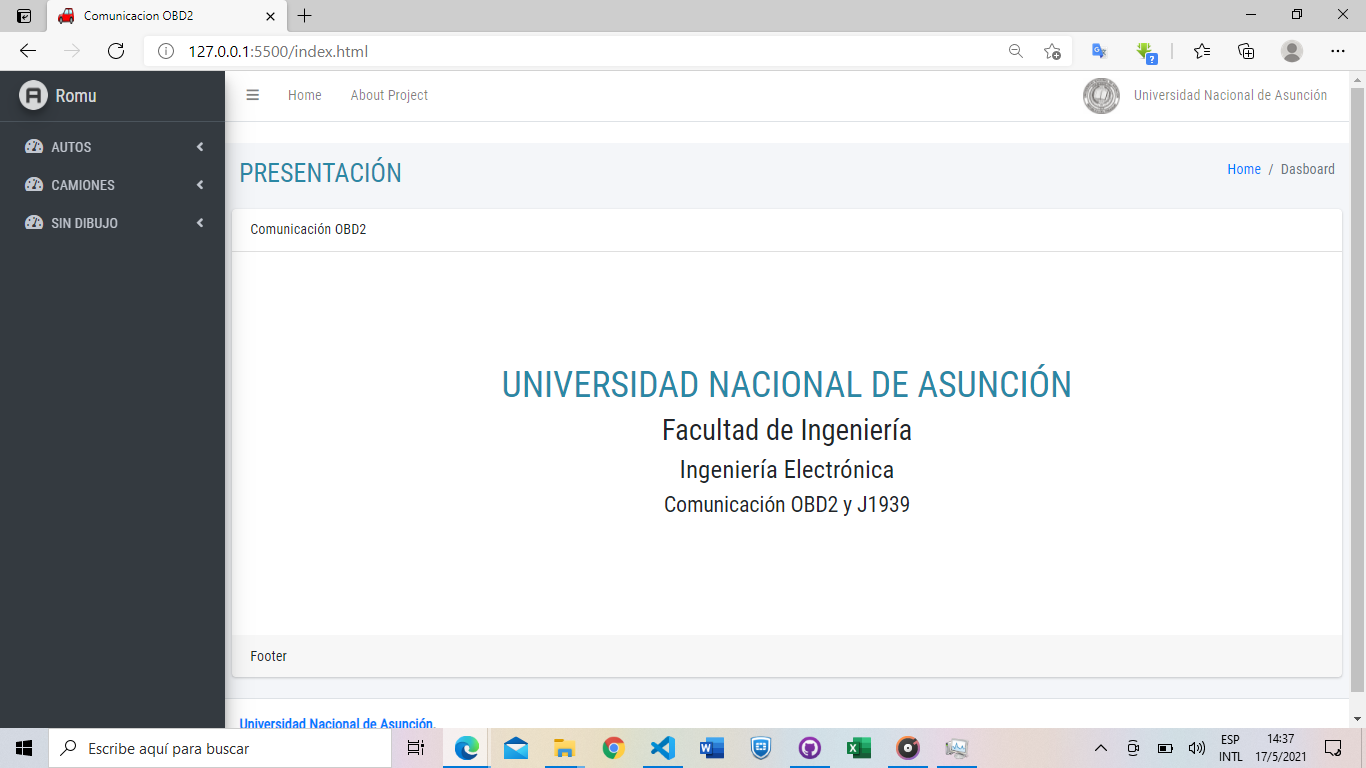
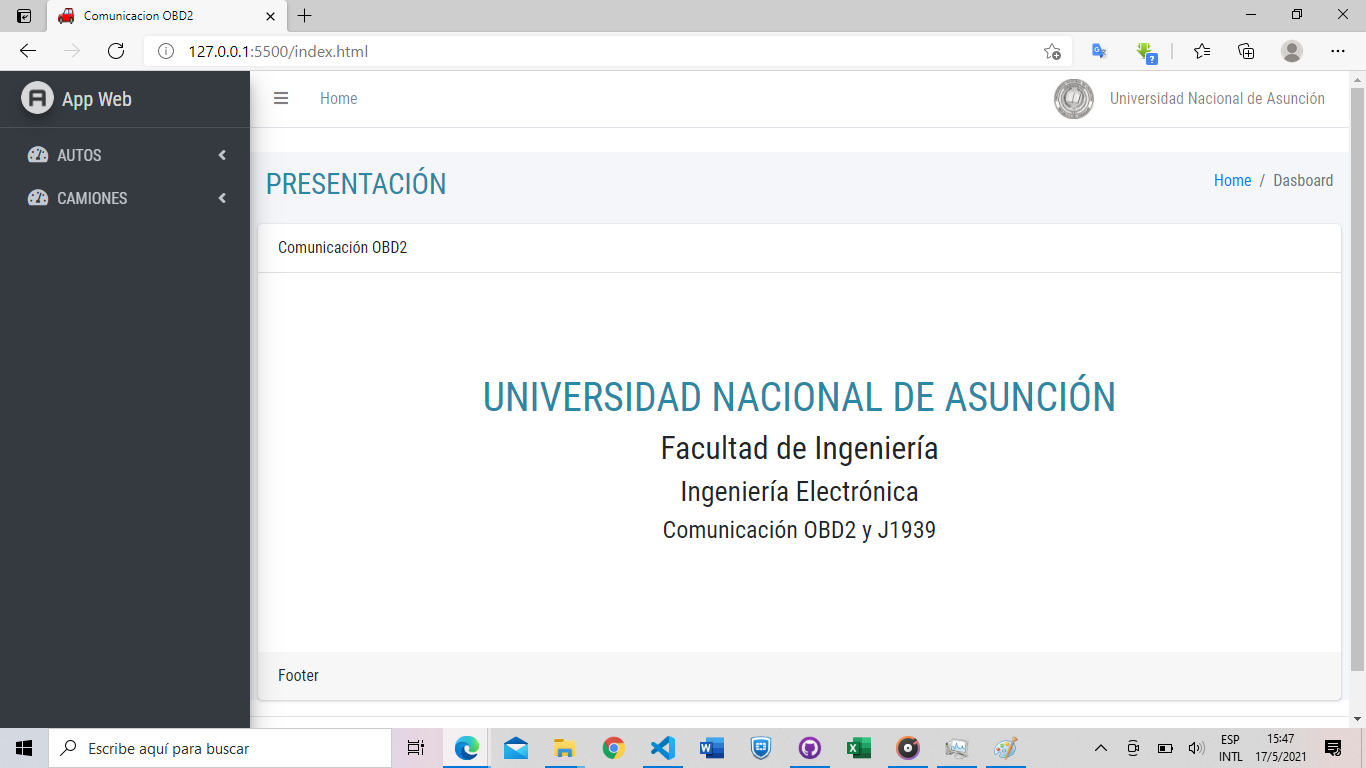
UPDATE CHNAGES
nuevas capturas

diff --git a/burbuja.html b/burbuja.html
@@ -33,7 +33,7 @@
         <a href="index.html" class="nav-link">Home</a>
       </li>
       <li class="nav-item d-none d-sm-inline-block">
-        <a href="index.html" class="nav-link">About Project</a>
+        <a href="index.html" class="nav-link"></a>
       </li>
     </ul>
     <ul class="navbar-nav ml-auto">
@@ -56,7 +56,7 @@
            alt="AdminLTE Logo"
            class="brand-image img-circle elevation-3"
            style="opacity: .8">
-      <span class="brand-text font-weight-light">Romu</span>
+      <span class="brand-text font-weight-light">App Web</span>
     </a>
 
     <!-- Sidebar -->
@@ -129,40 +129,7 @@
             </ul>
           </li>
 
-<!-- end segundo menu -->      
-
-<!-- TERCER menu -->
-<li class="nav-item has-treeview">
-    <a href="#" class="nav-link">
-      <i class="nav-icon fas fa-tachometer-alt"></i>
-      <p>
-        SIN DIBUJO
-        <i class="right fas fa-angle-left"></i>
-      </p>
-    </a>
-    <ul class="nav nav-treeview">
-      <li class="nav-item">
-        <a href="../../index.html" class="nav-link">
-          <i class="far fa-circle nav-icon"></i>
-          <p>MONITOR GRAFICO</p>
-        </a>
-      </li>
-      <li class="nav-item">
-        <a href="../../index2.html" class="nav-link">
-          <i class="far fa-circle nav-icon"></i>
-          <p>GRAFICO BURBUJA</p>
-        </a>
-      </li>
-      <li class="nav-item">
-        <a href="../../index3.html" class="nav-link">
-          <i class="far fa-circle nav-icon"></i>
-          <p>TIEMPO REAL</p>
-        </a>
-      </li>
-    </ul>
-  </li>
-
-<!-- end TERCER menu -->  
+<!-- end segundo menu -->       
 
         </ul>
       </nav>

diff --git a/time.html b/time.html
@@ -34,7 +34,7 @@
         <a href="index.html" class="nav-link">Home</a>
       </li>
       <li class="nav-item d-none d-sm-inline-block">
-        <a href="#" class="nav-link">About Project</a>
+        <a href="#" class="nav-link"></a>
       </li>
     </ul>
     <ul class="navbar-nav ml-auto">
@@ -57,7 +57,7 @@
            alt="AdminLTE Logo"
            class="brand-image img-circle elevation-3"
            style="opacity: .8">
-      <span class="brand-text font-weight-light">Romu</span>
+      <span class="brand-text font-weight-light">App Romu</span>
     </a>
 
     <!-- Sidebar -->
@@ -130,40 +130,7 @@
             </ul>
           </li>
 
-<!-- end segundo menu -->      
-
-<!-- TERCER menu -->
-<li class="nav-item has-treeview">
-    <a href="#" class="nav-link">
-      <i class="nav-icon fas fa-tachometer-alt"></i>
-      <p>
-        SIN DIBUJO
-        <i class="right fas fa-angle-left"></i>
-      </p>
-    </a>
-    <ul class="nav nav-treeview">
-      <li class="nav-item">
-        <a href="../../index.html" class="nav-link">
-          <i class="far fa-circle nav-icon"></i>
-          <p>MONITOR GRAFICO</p>
-        </a>
-      </li>
-      <li class="nav-item">
-        <a href="../../index2.html" class="nav-link">
-          <i class="far fa-circle nav-icon"></i>
-          <p>GRAFICO BURBUJA</p>
-        </a>
-      </li>
-      <li class="nav-item">
-        <a href="../../index3.html" class="nav-link">
-          <i class="far fa-circle nav-icon"></i>
-          <p>TIEMPO REAL</p>
-        </a>
-      </li>
-    </ul>
-  </li>
-
-<!-- end TERCER menu -->  
+<!-- end segundo menu -->        
 
         </ul>
       </nav>

diff --git a/monitor.html b/monitor.html
@@ -33,7 +33,7 @@
         <a href="index.html" class="nav-link">Home</a>
       </li>
       <li class="nav-item d-none d-sm-inline-block">
-        <a href="#" class="nav-link">About Project</a>
+        <a href="#" class="nav-link"></a>
       </li>
     </ul>
     <ul class="navbar-nav ml-auto">
@@ -56,7 +56,7 @@
            alt="AdminLTE Logo"
            class="brand-image img-circle elevation-3"
            style="opacity: .8">
-      <span class="brand-text font-weight-light">Romu</span>
+      <span class="brand-text font-weight-light">App Web</span>
     </a>
 
     <!-- Sidebar -->
@@ -129,40 +129,7 @@
             </ul>
           </li>
 
-<!-- end segundo menu -->      
-
-<!-- TERCER menu -->
-<li class="nav-item has-treeview">
-    <a href="#" class="nav-link">
-      <i class="nav-icon fas fa-tachometer-alt"></i>
-      <p>
-        SIN DIBUJO
-        <i class="right fas fa-angle-left"></i>
-      </p>
-    </a>
-    <ul class="nav nav-treeview">
-      <li class="nav-item">
-        <a href="../../index.html" class="nav-link">
-          <i class="far fa-circle nav-icon"></i>
-          <p>MONITOR GRAFICO</p>
-        </a>
-      </li>
-      <li class="nav-item">
-        <a href="../../index2.html" class="nav-link">
-          <i class="far fa-circle nav-icon"></i>
-          <p>GRAFICO BURBUJA</p>
-        </a>
-      </li>
-      <li class="nav-item">
-        <a href="../../index3.html" class="nav-link">
-          <i class="far fa-circle nav-icon"></i>
-          <p>TIEMPO REAL</p>
-        </a>
-      </li>
-    </ul>
-  </li>
-
-<!-- end TERCER menu -->  
+<!-- end segundo menu -->       
 
         </ul>
       </nav>

diff --git a/index.html b/index.html
@@ -36,7 +36,7 @@
         <a href="index.html" class="nav-link">Home</a>
       </li>
       <li class="nav-item d-none d-sm-inline-block">
-        <a href="#" class="nav-link">About Project</a>
+        <a href="#" class="nav-link"></a>
       </li>
   
     </ul>
@@ -62,7 +62,7 @@
            alt="AdminLTE Logo"
            class="brand-image img-circle elevation-3"
            style="opacity: .8">
-      <span class="brand-text font-weight-light">Romu</span>
+      <span class="brand-text font-weight-light">App Web</span>
     </a>
 
     <!-- Sidebar -->
@@ -135,40 +135,7 @@
             </ul>
           </li>
 
-<!-- end segundo menu -->      
-
-<!-- TERCER menu -->
-<li class="nav-item has-treeview">
-    <a href="#" class="nav-link">
-      <i class="nav-icon fas fa-tachometer-alt"></i>
-      <p>
-        SIN DIBUJO
-        <i class="right fas fa-angle-left"></i>
-      </p>
-    </a>
-    <ul class="nav nav-treeview">
-      <li class="nav-item">
-        <a href="../../index.html" class="nav-link">
-          <i class="far fa-circle nav-icon"></i>
-          <p>MONITOR GRAFICO</p>
-        </a>
-      </li>
-      <li class="nav-item">
-        <a href="../../index2.html" class="nav-link">
-          <i class="far fa-circle nav-icon"></i>
-          <p>GRAFICO BURBUJA</p>
-        </a>
-      </li>
-      <li class="nav-item">
-        <a href="../../index3.html" class="nav-link">
-          <i class="far fa-circle nav-icon"></i>
-          <p>TIEMPO REAL</p>
-        </a>
-      </li>
-    </ul>
-  </li>
-
-<!-- end TERCER menu -->  
+<!-- end segundo menu -->       
 
         </ul>
       </nav>

diff --git a/style.css b/style.css
@@ -51,7 +51,6 @@ img {
     height: 40px;
 }
 
-
   #updateInterval {
     height: calc(1.50rem + 2px);
     border-radius: 15px;
